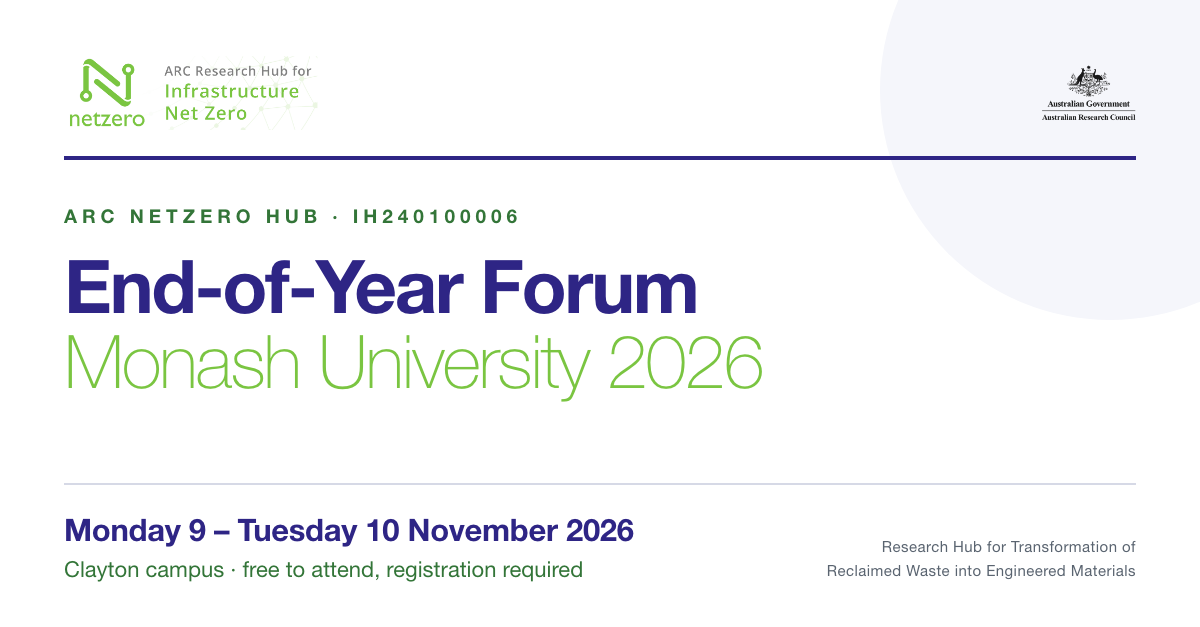
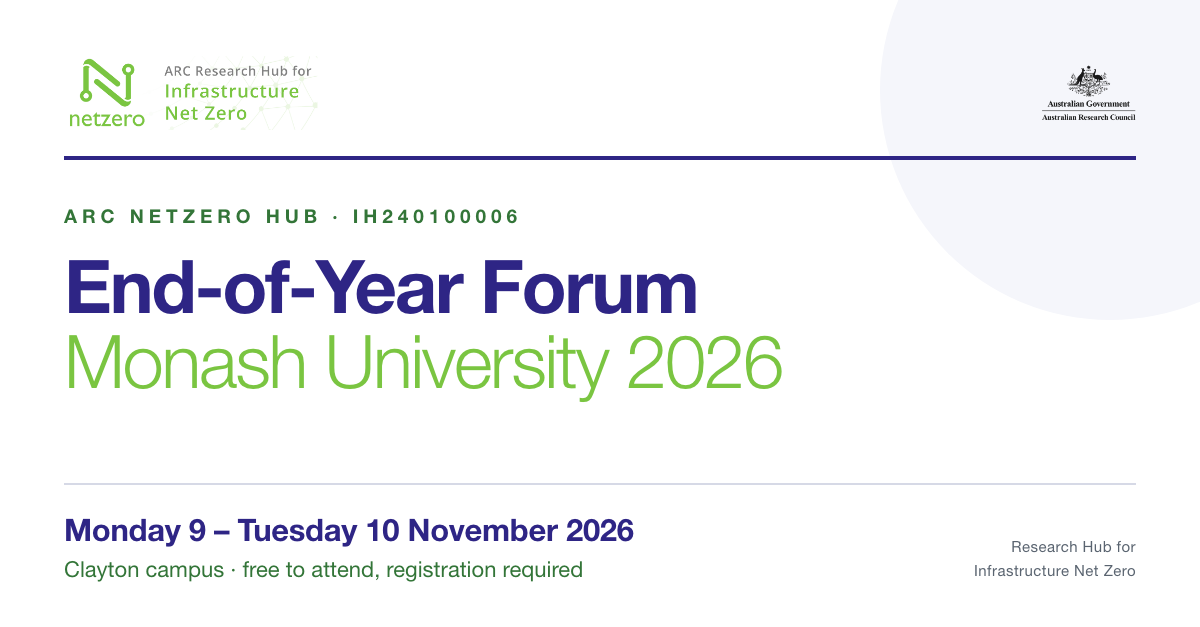
Correct the Hub name across the Forum site
The site carried the wrong Hub name on all six pages and on the OG card:
"ARC Research Hub for Transformation of Reclaimed Waste into Engineered
Materials". The correct name is "ARC Research Hub for Infrastructure Net
Zero" (IH240100006). Flagged by Felipe Basquiroto de Souza, Hub Manager.

Also applies two wording fixes from the same review:
- "challenges facing the construction industry" (index)
- "Close of the Session" (programme, Day 2)

Changed region(s): [[0.0308, 0.5152, 0.6783, 0.6364], [0.6783, 0.8485, 0.9558, 0.9394]]

diff --git a/index.html b/index.html
@@ -4,7 +4,7 @@
 <meta charset="utf-8">
 <meta name="viewport" content="width=device-width, initial-scale=1">
 <title>ARC NetZero Hub — End-of-Year Forum 2026</title>
-<meta name="description" content="The ARC Research Hub for Transformation of Reclaimed Waste into Engineered Materials brings together its researchers, industry partners and students for two days on 9&ndash;10 November 2026.">
+<meta name="description" content="The ARC Research Hub for Infrastructure Net Zero brings together its researchers, industry partners and students for two days on 9&ndash;10 November 2026.">
 
 <!-- Open Graph — controls the LinkedIn link preview card. Update og:url
      to the live address before the first post goes out. -->
@@ -65,7 +65,7 @@
 
   <section>
     <h2>About the Forum</h2>
-    <p class="lede">Two days bringing together industry, researchers, research fellows and students to discuss the challenges facing construction, and to set the priorities ahead.</p>
+    <p class="lede">Two days bringing together industry, researchers, research fellows and students to discuss the challenges facing the construction industry, and to set the priorities ahead.</p>
     <p>Topics are net zero across the board — including, but not limited to, the Hub's four research themes: digital twins and robotics, low-carbon concrete, construction and additive manufacturing, and asset operation and maintenance.</p>
   </section>
 
@@ -136,7 +136,7 @@
 
   <section>
     <h2>About the Hub</h2>
-    <p>This Forum is run by the ARC Research Hub for Transformation of Reclaimed Waste into Engineered Materials, based at Monash University and funded by the Australian Research Council.</p>
+    <p>This Forum is run by the ARC Research Hub for Infrastructure Net Zero, based at Monash University and funded by the Australian Research Council.</p>
     <p>The Hub works with industry partners to decarbonise the construction sector — through digital transformation, better manufacturing efficiency, and progress towards net-zero.</p>
     <div class="btnrow">
       <a class="btn ghost" href="https://www.monash.edu/arc-netzero">Visit the Hub website</a>
@@ -149,7 +149,7 @@
 <footer class="site">
   <div class="footin">
     <div>
-      <p><strong>ARC NetZero Hub</strong><br>Research Hub for Transformation of Reclaimed Waste into Engineered Materials</p>
+      <p><strong>ARC NetZero Hub</strong><br>Research Hub for Infrastructure Net Zero</p>
       <p>Hub website: <a href="https://www.monash.edu/arc-netzero">monash.edu/arc-netzero</a></p>
       <p>Enquiries: <a href="contact.html">arcnetzero <span aria-hidden="true">[at]</span> monash.edu</a></p>
     </div>

diff --git a/programme.html b/programme.html
@@ -133,7 +133,7 @@
           <tr class="break"><td class="time">10:10&ndash;10:20</td><td>Break</td><td>&mdash;</td></tr>
           <tr><td class="time">10:20&ndash;10:55</td><td>Mentoring programme launch</td><td>All</td></tr>
           <tr><td class="time">10:55&ndash;11:25</td><td>Round-tables — HDRs and research fellows with the speakers</td><td>HDR &middot; RF</td></tr>
-          <tr><td class="time">11:25&ndash;11:35</td><td>Close of the open programme</td><td>All</td></tr>
+          <tr><td class="time">11:25&ndash;11:35</td><td>Close of the Session</td><td>All</td></tr>
 
           <tr class="major"><td class="time">11:35&ndash;13:00</td><td>Major research initiatives — ITRH and ITTC proposals, and the new ARC funding framework<br><span class="chair">Chairs: <span class="tbc">Two, TBC</span></span></td><td>Open to all</td></tr>
 
@@ -150,7 +150,7 @@
 <footer class="site">
   <div class="footin">
     <div>
-      <p><strong>ARC NetZero Hub</strong><br>Research Hub for Transformation of Reclaimed Waste into Engineered Materials</p>
+      <p><strong>ARC NetZero Hub</strong><br>Research Hub for Infrastructure Net Zero</p>
       <p>Hub website: <a href="https://www.monash.edu/arc-netzero">monash.edu/arc-netzero</a></p>
       <p>Enquiries: <a href="contact.html">arcnetzero <span aria-hidden="true">[at]</span> monash.edu</a></p>
     </div>

diff --git a/contact.html b/contact.html
@@ -77,7 +77,7 @@
   <section>
     <h2>The Hub</h2>
     <dl class="facts">
-      <div><dt>Full name</dt><dd>ARC Research Hub for Transformation of Reclaimed Waste into Engineered Materials</dd></div>
+      <div><dt>Full name</dt><dd>ARC Research Hub for Infrastructure Net Zero</dd></div>
       <div><dt>ARC reference</dt><dd>IH240100006</dd></div>
       <div><dt>Director</dt><dd>Professor Wenhui Duan, Monash University</dd></div>
       <div><dt>Hub Manager</dt><dd>Dr Felipe Basquiroto de Souza</dd></div>
@@ -97,7 +97,7 @@
 <footer class="site">
   <div class="footin">
     <div>
-      <p><strong>ARC NetZero Hub</strong><br>Research Hub for Transformation of Reclaimed Waste into Engineered Materials</p>
+      <p><strong>ARC NetZero Hub</strong><br>Research Hub for Infrastructure Net Zero</p>
       <p>Hub website: <a href="https://www.monash.edu/arc-netzero">monash.edu/arc-netzero</a></p>
       <p>Enquiries: <span class="hubmail-inline">arcnetzero <span aria-hidden="true">[at]</span> monash.edu</span></p>
     </div>

diff --git a/registration.html b/registration.html
@@ -162,7 +162,7 @@
 <footer class="site">
   <div class="footin">
     <div>
-      <p><strong>ARC NetZero Hub</strong><br>Research Hub for Transformation of Reclaimed Waste into Engineered Materials</p>
+      <p><strong>ARC NetZero Hub</strong><br>Research Hub for Infrastructure Net Zero</p>
       <p>Hub website: <a href="https://www.monash.edu/arc-netzero">monash.edu/arc-netzero</a></p>
       <p>Enquiries: <a href="contact.html">arcnetzero <span aria-hidden="true">[at]</span> monash.edu</a></p>
     </div>

diff --git a/speakers.html b/speakers.html
@@ -109,7 +109,7 @@
 <footer class="site">
   <div class="footin">
     <div>
-      <p><strong>ARC NetZero Hub</strong><br>Research Hub for Transformation of Reclaimed Waste into Engineered Materials</p>
+      <p><strong>ARC NetZero Hub</strong><br>Research Hub for Infrastructure Net Zero</p>
       <p>Hub website: <a href="https://www.monash.edu/arc-netzero">monash.edu/arc-netzero</a></p>
       <p>Enquiries: <a href="contact.html">arcnetzero <span aria-hidden="true">[at]</span> monash.edu</a></p>
     </div>

diff --git a/venue.html b/venue.html
@@ -107,7 +107,7 @@
 <footer class="site">
   <div class="footin">
     <div>
-      <p><strong>ARC NetZero Hub</strong><br>Research Hub for Transformation of Reclaimed Waste into Engineered Materials</p>
+      <p><strong>ARC NetZero Hub</strong><br>Research Hub for Infrastructure Net Zero</p>
       <p>Hub website: <a href="https://www.monash.edu/arc-netzero">monash.edu/arc-netzero</a></p>
       <p>Enquiries: <a href="contact.html">arcnetzero <span aria-hidden="true">[at]</span> monash.edu</a></p>
     </div>
